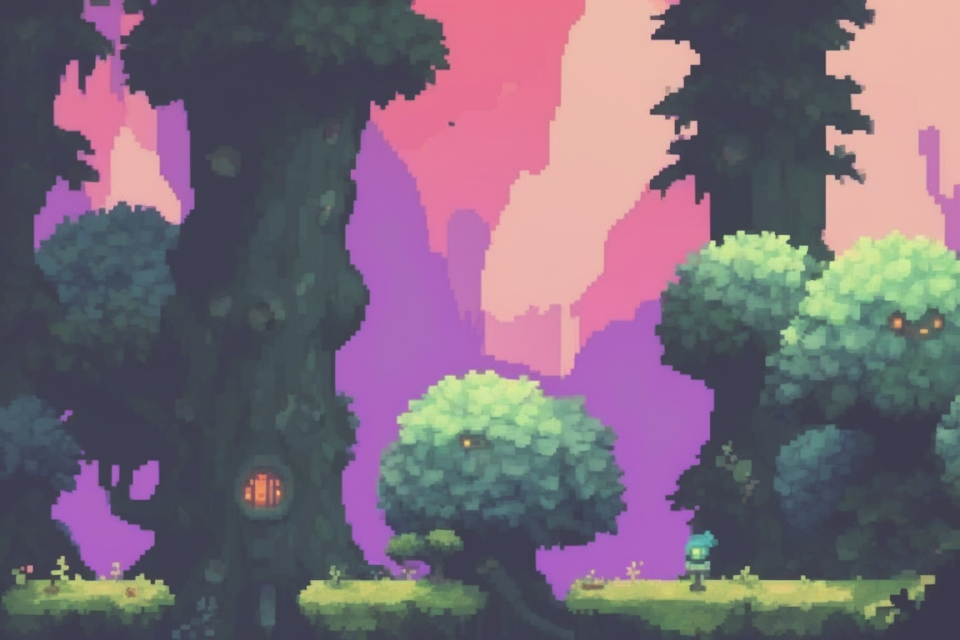
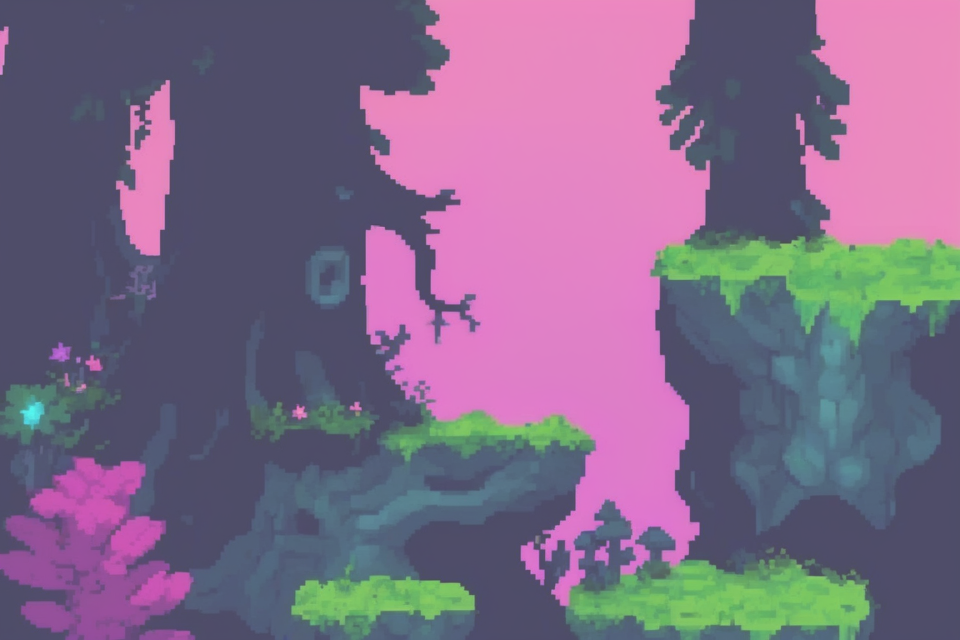
alternatvie Hintergründe

diff --git a/init.js b/init.js
@@ -3426,7 +3426,7 @@ class Level {
 
 
 
-
+let currentBgImage
 const render_background = {
     
     jungle: (dc, px, py, player_x, player_y) => {
@@ -3462,15 +3462,6 @@ const render_background = {
             dc.draw_image("grass", x + px * 0.6, hill_line_y - player_y + 20)
         }
 
-/*
-        for (let i = 10; i < 20; i++) {
-            let hill_x = (i-10) * 320 + 240
-            let img = "hill2"
-            let offy = 0
-            dc.draw_image(img, hill_x + px * 0.65 + this.hill2offset[i], hill_line_y - player_y + offy)
-        }
-*/
-
     },
 
     hills: (dc, px, py, player_x, player_y) => { //dc = drawing content
@@ -3480,36 +3471,11 @@ const render_background = {
         dc.raw_ctx.fillRect(0, 0, dc.gfx_width, dc.gfx_height) //underground background
         dc.raw_ctx.fillStyle = "#07A"
         dc.raw_ctx.fillRect(0, py + 160, dc.gfx_width, 992 - 14) //sky background
-        ////dc.raw_ctx.fillStyle = "#722222"
-        ////dc.raw_ctx.fillRect(0, py + hill_line_y - 160, dc.gfx_width, 160) //hill color additional background
-
-
-        //render background:
-        //himmel1.0
-        dc.draw_image("bg1", px * 0.1, 752 - player_y)
-
         if (!this.renderedAlreadyFirstTimeSwitch) {
             this.renderedAlreadyFirstTimeSwitch = true
-            this.hill2offset = []
-            for (let i = 0; i < 10; i++) {
-                this.hill2offset[i] = rnd(0, 60)
-            }    
-            for (let i = 10; i < 20; i++) {
-                this.hill2offset[i] = rnd(0, 320)
-            }    
+            currentBgImage = rnd(1, 2)
         }
-
-        for (let i = 0; i < 10; i++) {
-            let hill_x = i * 320 + 240
-            //dc.draw_image("hill2", hill_x + px * 0.6 + this.hill2offset[i], hill_line_y - player_y)
-        }
-
-        for (let i = 10; i < 20; i++) {
-            let hill_x = (i-10) * 320 + 240
-            let img = "hill2"
-            let offy = 0
-            //dc.draw_image(img, hill_x + px * 0.65 + this.hill2offset[i], hill_line_y - player_y + offy)
-        }
+        dc.draw_image("bg" + currentBgImage, px * 0.1, 752 - player_y)
     },
 }
 

diff --git a/index.html b/index.html
@@ -258,7 +258,8 @@
 
     <img id="water0" src="assets/water0.png">
 
-    <img id="bg1" src="assets/adv/forest2.png">
+    <img id="bg1" src="assets/adv/forest1.png">
+    <img id="bg2" src="assets/adv/forest2.png">
 
     <img id="hill" src="assets/hill.png">
     <img id="hill2" src="assets/hill2.png">
